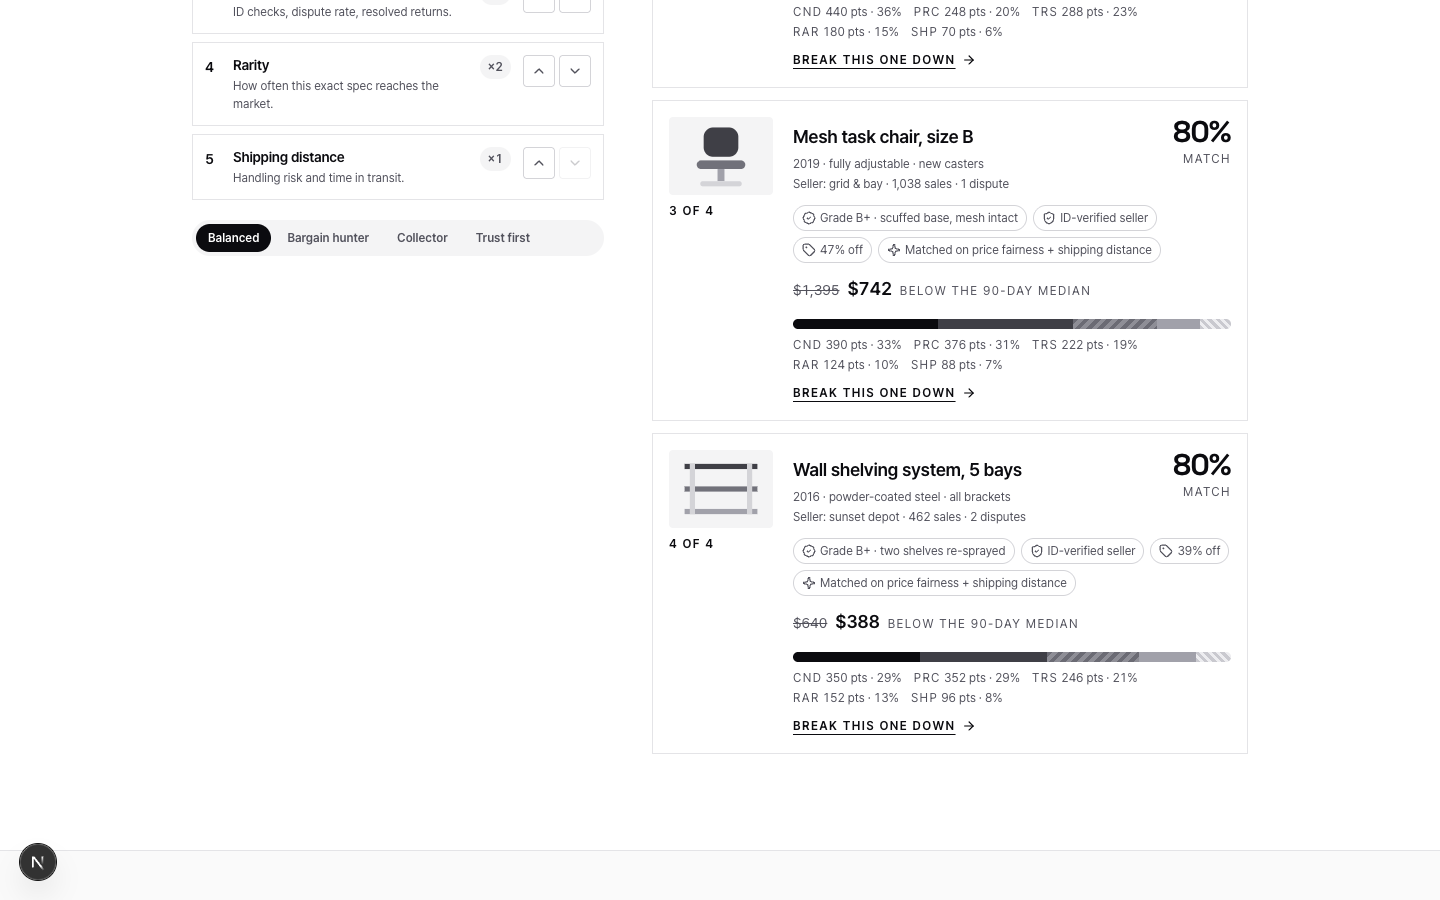
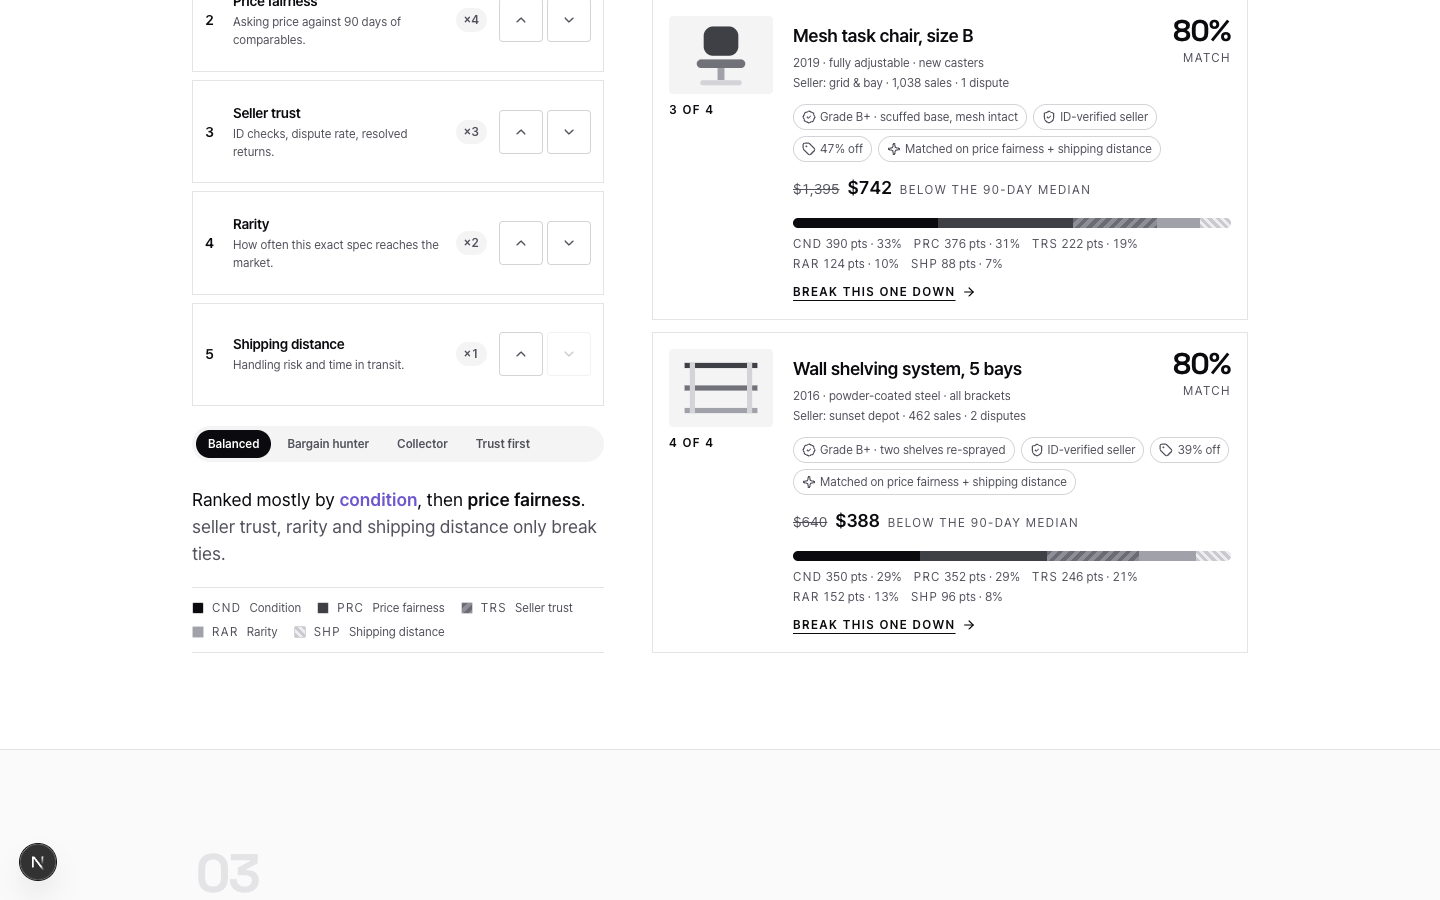
fix(landing): v11 좌측 열 데드존 498px → 0
사용자가 프로덕션에서 짚었다. 그리드는 정상이고 두 열이 같은 높이로
늘어나 있었는데, 빈 공간이 좌측 열 안쪽에 있었다. 콘텐츠가 프리셋 칩에서
끝나고 498px이 남았다.

이건 렌즈1이 판정 때 이미 지적한 결함이다. 세트 내 최대 데드존이고 b의
유일한 구성 결함이라고 적었는데, 순위를 뒤집지 않는 보조 관찰로 분류됐고
내가 DECISION에 옮기지 않았다. 그래서 승격과 카탈로그 등재까지 아무도 모른
채 지나갔다. 보조 관찰이라고 기록에서 빼면 승격 후에 그 결함을 아는 사람이
없어진다.

designer가 원인을 짚었다. 컨테이너가 max-w-1120px 랜딩 정본값이라 1280부터
2560까지 전부 캡되어 지오메트리가 하나다. 폭 구간 문제가 아니라 단일
지오메트리 문제였고 한 번 풀면 전 폭이 함께 풀린다.

고친 방식은 빈 자리를 콘텐츠가 쓰게 한 것이다. 우측에 있던 산문 요약과
기준 색 키를 좌측으로 옮기고, 남는 높이를 컨트롤 행이 flex-1 체인으로
흡수하게 했다. 그리드 아이템이 stretch라 좌측 높이가 행 높이로 확정되므로
잔여 공백이 계산값과 무관하게 0이다. 배치 근거도 맞다. 산문 요약은 좌측
컨트롤이 만들어내는 결과라 그것을 만든 컨트롤 밑이 제자리다.

sticky는 산술 근거로 기각했다. 레일 콘텐츠가 수정 후 1382px라 일반
뷰포트보다 380에서 480px 크다.

부수로 위아래 버튼을 32에서 44px로 올렸다.

재검증했다. 1120부터 2560까지 빈 공간 0px, 두 열 1513/1513, 게이트 9관문
통과에 a11y 100이다. 매물 카드 8장 중 첫 폴드에 4장이라 1위 근거도
유지된다. designer 계산값 1515와 실측 1513이 2px 차이였다.

diff --git a/app/src/app/(marketing)/v11/ranking-board.tsx b/app/src/app/(marketing)/v11/ranking-board.tsx
@@ -79,7 +79,7 @@ export default function RankingBoard() {
         <div className="mx-auto w-full max-w-[1120px] px-5 py-14 md:px-8 md:py-24">
           <div className="grid gap-12 lg:grid-cols-12 lg:gap-12">
             {/* Rail — the input side of the page. */}
-            <div className="min-w-0 animate-[rise_0.5s_ease-out_backwards] lg:col-span-5 motion-reduce:animate-none">
+            <div className="flex min-w-0 flex-col animate-[rise_0.5s_ease-out_backwards] lg:col-span-5 motion-reduce:animate-none">
               <p className="text-xs font-normal uppercase tracking-[0.28em] text-zinc-600">
                 repick · AI-picked secondhand
               </p>
@@ -99,13 +99,13 @@ export default function RankingBoard() {
               </p>
               <a
                 href="#picks"
-                className="mt-7 inline-flex items-center gap-2 rounded-full bg-[#6E56CF] px-6 py-3 text-sm font-semibold text-white transition-transform duration-200 ease-out hover:-translate-y-px focus-visible:outline-none focus-visible:ring-2 focus-visible:ring-[#6E56CF] focus-visible:ring-offset-2 motion-reduce:transition-none"
+                className="mt-7 inline-flex items-center gap-2 self-start rounded-full bg-[#6E56CF] px-6 py-3 text-sm font-semibold text-white transition-transform duration-200 ease-out hover:-translate-y-px focus-visible:outline-none focus-visible:ring-2 focus-visible:ring-[#6E56CF] focus-visible:ring-offset-2 motion-reduce:transition-none"
               >
                 See tonight&rsquo;s ranked picks
                 <ArrowRight aria-hidden="true" className="size-4" />
               </a>
 
-              <div className="mt-12 border-t border-zinc-200 pt-6">
+              <div className="mt-12 flex flex-1 flex-col border-t border-zinc-200 pt-6">
                 <GhostNumber value="01" />
                 <p className="mt-1 text-xs font-normal uppercase tracking-[0.16em] text-zinc-600">
                   Fig. 01 — Criteria, in the order you set
@@ -114,15 +114,15 @@ export default function RankingBoard() {
                   Move a criterion up and it weighs more.
                 </h2>
 
-                <ol className="mt-5 flex flex-col gap-2">
+                <ol className="mt-5 flex flex-1 flex-col gap-2">
                   {rail.map((row, i) => (
                     <motion.li
                       key={row.crit.id}
                       layout
                       transition={tween}
-                      className="flex min-w-0 items-start gap-3 border border-zinc-200 bg-white p-3"
+                      className="flex min-w-0 flex-1 items-center gap-3 border border-zinc-200 bg-white p-3"
                     >
-                      <span className="w-4 shrink-0 pt-0.5 text-sm font-semibold tabular-nums">
+                      <span className="w-4 shrink-0 text-sm font-semibold tabular-nums">
                         {row.position}
                       </span>
                       <span className="min-w-0 flex-1">
@@ -152,7 +152,7 @@ export default function RankingBoard() {
                               : `Move ${row.crit.name} up to position ${row.position - 1}`
                           }
                           onClick={() => move(row.crit.id, -1)}
-                          className="inline-flex size-8 items-center justify-center rounded-sm border border-zinc-300 text-zinc-600 transition-colors duration-150 hover:border-[#0B0B0F] hover:text-[#0B0B0F] focus-visible:outline-none focus-visible:ring-2 focus-visible:ring-[#6E56CF] focus-visible:ring-offset-2 aria-disabled:opacity-30 aria-disabled:hover:border-zinc-300 aria-disabled:hover:text-zinc-600"
+                          className="inline-flex size-11 items-center justify-center rounded-sm border border-zinc-300 text-zinc-600 transition-colors duration-150 hover:border-[#0B0B0F] hover:text-[#0B0B0F] focus-visible:outline-none focus-visible:ring-2 focus-visible:ring-[#6E56CF] focus-visible:ring-offset-2 aria-disabled:opacity-30 aria-disabled:hover:border-zinc-300 aria-disabled:hover:text-zinc-600"
                         >
                           <ChevronUp aria-hidden="true" className="size-4" />
                         </button>
@@ -165,7 +165,7 @@ export default function RankingBoard() {
                               : `Move ${row.crit.name} down to position ${row.position + 1}`
                           }
                           onClick={() => move(row.crit.id, 1)}
-                          className="inline-flex size-8 items-center justify-center rounded-sm border border-zinc-300 text-zinc-600 transition-colors duration-150 hover:border-[#0B0B0F] hover:text-[#0B0B0F] focus-visible:outline-none focus-visible:ring-2 focus-visible:ring-[#6E56CF] focus-visible:ring-offset-2 aria-disabled:opacity-30 aria-disabled:hover:border-zinc-300 aria-disabled:hover:text-zinc-600"
+                          className="inline-flex size-11 items-center justify-center rounded-sm border border-zinc-300 text-zinc-600 transition-colors duration-150 hover:border-[#0B0B0F] hover:text-[#0B0B0F] focus-visible:outline-none focus-visible:ring-2 focus-visible:ring-[#6E56CF] focus-visible:ring-offset-2 aria-disabled:opacity-30 aria-disabled:hover:border-zinc-300 aria-disabled:hover:text-zinc-600"
                         >
                           <ChevronDown aria-hidden="true" className="size-4" />
                         </button>
@@ -198,6 +198,39 @@ export default function RankingBoard() {
                     );
                   })}
                 </div>
+
+                {/* The prose read-back and the fill key both describe the criteria list, so they
+                    live under the control that produces them rather than at the head of the
+                    results column — which also stops the rail from ending 498px short of the
+                    grid row it shares with the cards. */}
+                <p className="mt-6 max-w-[62ch] text-lg font-normal leading-[1.5]">
+                  Ranked mostly by{" "}
+                  <span className="font-semibold text-[#6E56CF]">
+                    {first.crit.name.toLowerCase()}
+                  </span>
+                  , then <span className="font-semibold">{second.crit.name.toLowerCase()}</span>.{" "}
+                  <span className="text-zinc-600">
+                    {third.crit.name.toLowerCase()}, {fourth.crit.name.toLowerCase()} and{" "}
+                    {fifth.crit.name.toLowerCase()} only break ties.
+                  </span>
+                </p>
+
+                <ul className="mt-5 flex flex-wrap gap-x-4 gap-y-2 border-y border-zinc-200 py-3">
+                  {rail.map((row) => (
+                    <li
+                      key={row.crit.id}
+                      className="flex items-center gap-2 text-xs font-normal text-zinc-600"
+                    >
+                      <span
+                        aria-hidden="true"
+                        className="size-3 shrink-0 rounded-[2px] border border-zinc-300"
+                        style={{ background: row.crit.fill }}
+                      />
+                      <span className="uppercase tracking-[0.12em]">{row.crit.abbr}</span>
+                      <span>{row.crit.name}</span>
+                    </li>
+                  ))}
+                </ul>
               </div>
             </div>
 
@@ -221,33 +254,6 @@ export default function RankingBoard() {
                 </div>
                 <GhostNumber value="02" />
               </div>
-
-              <p className="mt-4 max-w-[62ch] text-lg font-normal leading-[1.5]">
-                Ranked mostly by{" "}
-                <span className="font-semibold text-[#6E56CF]">{first.crit.name.toLowerCase()}</span>
-                , then <span className="font-semibold">{second.crit.name.toLowerCase()}</span>.{" "}
-                <span className="text-zinc-600">
-                  {third.crit.name.toLowerCase()}, {fourth.crit.name.toLowerCase()} and{" "}
-                  {fifth.crit.name.toLowerCase()} only break ties.
-                </span>
-              </p>
-
-              <ul className="mt-5 flex flex-wrap gap-x-4 gap-y-2 border-y border-zinc-200 py-3">
-                {rail.map((row) => (
-                  <li
-                    key={row.crit.id}
-                    className="flex items-center gap-2 text-xs font-normal text-zinc-600"
-                  >
-                    <span
-                      aria-hidden="true"
-                      className="size-3 shrink-0 rounded-[2px] border border-zinc-300"
-                      style={{ background: row.crit.fill }}
-                    />
-                    <span className="uppercase tracking-[0.12em]">{row.crit.abbr}</span>
-                    <span>{row.crit.name}</span>
-                  </li>
-                ))}
-              </ul>
 
               <ol className="mt-5 flex flex-col gap-3">
                 {ranked.map((row, i) => {

diff --git a/vault/20-generations/2026-08-11-auto-landing-r9/DECISION.md b/vault/20-generations/2026-08-11-auto-landing-r9/DECISION.md
@@ -88,3 +88,42 @@ c에게 배정한 "부정 증거" 축(제외 사유 토글)은 **구조적으로
 | **웨이트 3종의 확정값** | a·b·c 전부 400/600/800 | 3 | 값 자체는 수렴했으나 정본이 "예:"로만 제시. 확정할지 자유로 둘지 결정 필요 |
 
 1회 보고라 집계에서 제외했으나 **성질이 달라 기록하는 것 1건**: c가 **DNA accent `#6E56CF`가 `#0B0B0F` 위에서 3.73:1로 본문 크기 AA 미달**임을 실측하고 `#B6A6F0`(9.1:1)을 파생했다. 이건 취향 차이가 아니라 **정본 색 토큰과 a11y 하드게이트의 정면 충돌**이라 질문 큐로 올린다(Q24).
+
+## 승격 후 수정 — judge가 짚었는데 기록에 안 남았던 결함 (2026-08-14)
+
+**렌즈1이 판정 때 이걸 지적했다**: *"`b-1440-s35` 좌측 컬럼이 프리셋 칩 직후 끊기고 프레임 하단까지 백지 — 세트 내 최대 데드존. b의 유일한 구성 결함."*
+
+렌즈1은 이를 "순위를 뒤집지 않는 보조 관찰"로 분류했고 오케스트레이터도 그렇게 읽어 **이 DECISION에 적지 않았다.** 그 결과 승격·카탈로그 등재까지 아무도 모른 채 지나갔고, **사용자가 프로덕션 `/v11`에서 발견했다.**
+
+> **보조 관찰이라고 기록에서 빼면 승격 후에 그 결함을 아는 사람이 없어진다.** 승자의 결함은 순위에 반영되지 않아도 **승격되는 물건에는 그대로 남는다.** `dash-falsify` §4-1이 "게이트가 안 보는 것은 승격이 봐야 한다"며 lint 확인을 넣은 것과 같은 자리다.
+
+### 실측 (수정 전)
+
+```
+그리드 두 열   96 ~ 1765   (둘 다 같은 높이 — 그리드 자체는 정상)
+좌측 콘텐츠     96 ~ 1267   (기준 5행 + 프리셋 칩에서 끝남)
+→ 좌측 열 안 빈 공간 498px
+```
+
+폭 1280·1440·1920·2560에서 **값이 전부 동일**했다. designer가 원인을 짚었다 — 컨테이너가 `max-w-[1120px]`(랜딩 정본값)이라 네 폭 전부 캡되어 **지오메트리가 하나**다. 즉 폭 구간 문제가 아니라 **단일 지오메트리 문제**였고, 한 번 풀면 전 폭이 함께 풀린다.
+
+### 고친 방식
+
+**빈 자리를 콘텐츠가 쓰게 했다** — 우측에 있던 두 블록(산문 요약 · 기준 색/해치 키)을 **좌측으로 이동**(복제 아님)하고, 남는 높이를 컨트롤 행이 `flex-1` 체인으로 흡수하게 했다. 그리드 아이템이 `stretch`라 좌측 높이가 행 높이로 확정되므로 **잔여 공백이 계산값과 무관하게 0**이다.
+
+배치 근거도 타당하다 — 산문 요약은 **좌측 컨트롤이 만들어내는 결과**라 그것을 만든 컨트롤 밑이 제자리이고, 색/해치 키는 기준 목록의 범례다. 부수 효과로 **우측 카드가 154px 위로 올라와 1위 근거(첫 폴드 병렬 카드)가 오히려 강해졌다.**
+
+`sticky`는 **산술 근거로 기각**했다 — 레일 콘텐츠가 수정 후 약 1382px라 일반 뷰포트(900~1000)보다 380~480px 크다. 열 비율 변경(5/7→4/8)도 기각(레일 341px에서 텍스트 열이 153px만 남아 blurb가 4줄로 무너진다).
+
+부수로 **위/아래 버튼을 32 → 44px**로 올렸다(어차피 늘어나는 자리를 의미 있는 타깃 확대로 썼다).
+
+### 실측 (수정 후 · 오케스트레이터 재검증)
+
+| 폭 | 좌측 열 안 빈 공간 | 두 열 높이 |
+|---|---|---|
+| 1120 · 1280 · 1440 · 1920 · 2560 | **0px** | 1513 / 1513 |
+| 390 | 0px (단일 열로 쌓임) | — |
+
+designer의 계산값(1515)과 실측(1513)이 **2px 차이**였다. 게이트 9관문 재통과(a11y **100**), 매물 카드 8장 중 **첫 폴드에 4장**(첫 카드 top 172) — 1위 근거 유지. 위/아래 버튼 10개가 44×44로 확인됐다.
+
+> 남은 28px 컨트롤은 프리셋 칩 4개(`Balanced`/`Bargain hunter`/`Collector`/`Trust first`)다. 판정을 통과한 부분이고 이번 수정 범위 밖이라 두었다 — 랜딩 정본에 44px 조항이 없고 a11y는 100이다.
